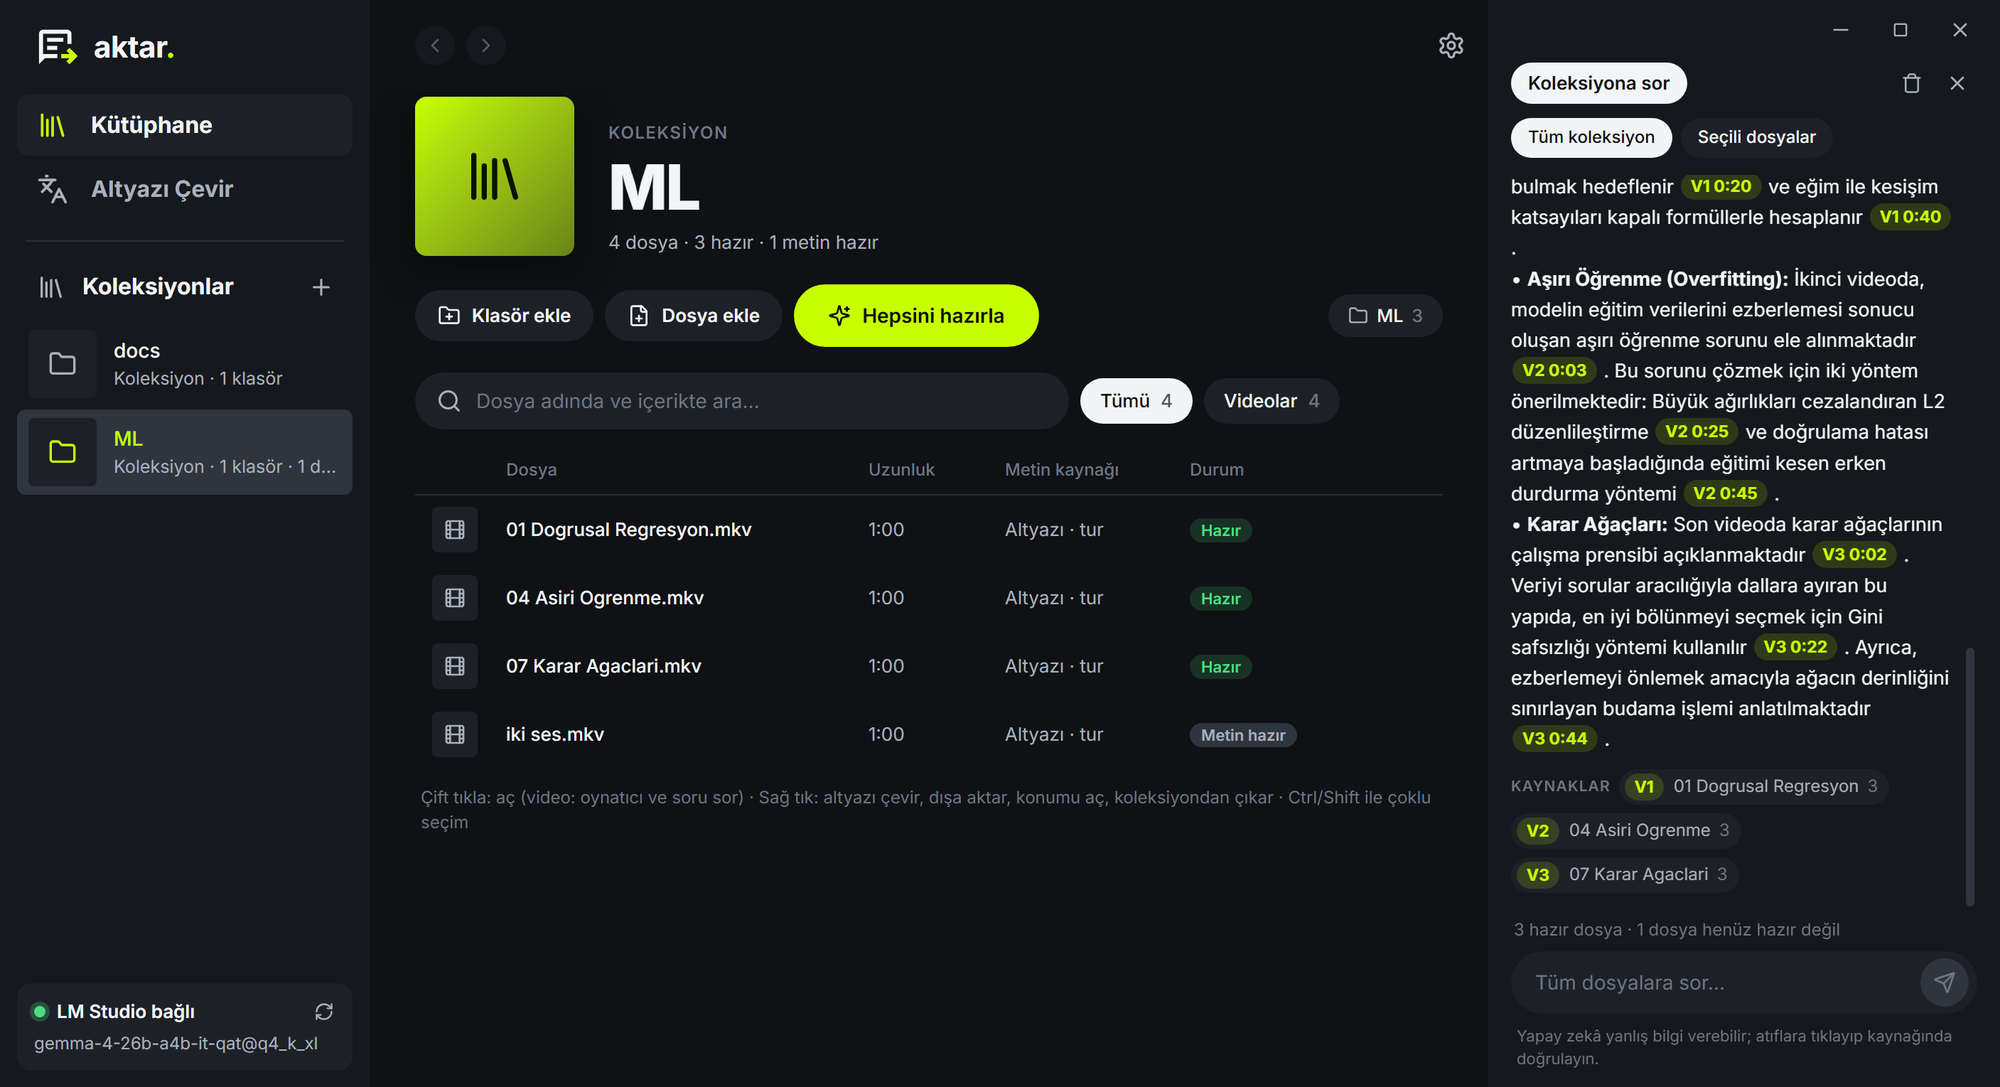
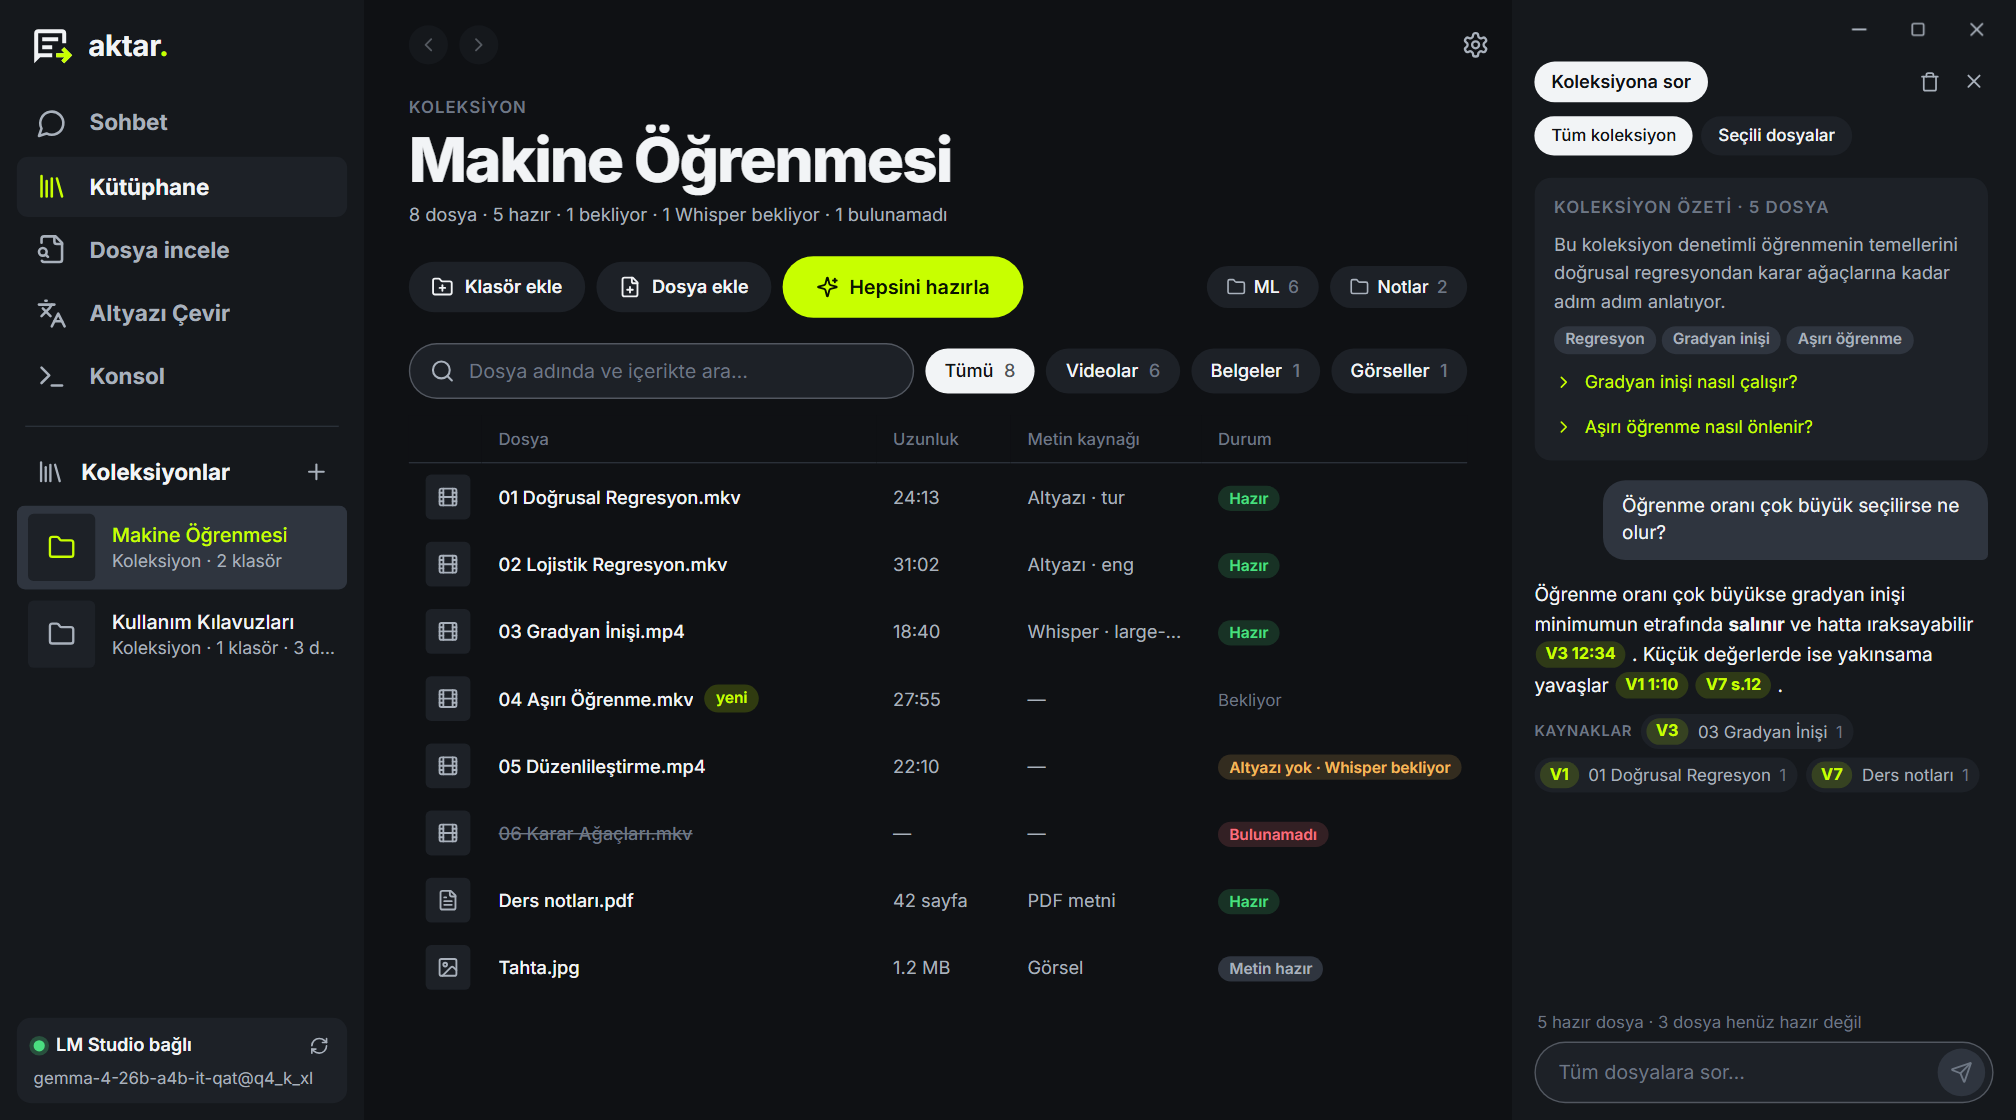
README: kisaltildi ve sadelestirildi, ekran goruntusu guncellendi

diff --git a/README.md b/README.md
@@ -7,96 +7,60 @@
 
 ![aktar arayüzü](preview.png)
 
-Video dosyalarındaki **metin tabanlı altyazıları** çıkarıp, **yerel bir yapay zeka modeliyle Türkçeye çeviren** ve videolarınız hakkında **soru sorabildiğiniz** masaüstü uygulaması.
+Videolarınızı ve belgelerinizi **yerel bir yapay zeka modeliyle** inceleyen masaüstü uygulaması: altyazıları Türkçeye çevirir, koleksiyonlarınıza soru sorabilir, cevapları zaman damgalı kaynaklarla gösterir.
 
-> **Gizlilik:** Hiçbir veri internet üzerinden gönderilmez. Çeviri ve soru-cevap tamamen yerel ağdaki LM Studio sunucusunda (`127.0.0.1`) yapılır. Kaynak video dosyası **salt-okunur** kabul edilir; kopyalanmaz, taşınmaz, değiştirilmez veya yeniden encode edilmez.
+> **Gizlilik:** Hiçbir veri internete gönderilmez. Tüm işlemler LM Studio sunucunuzda yapılır; kaynak dosyalar yalnızca okunur, değiştirilmez.
 
-> **English:** Aktar is a cross-platform (Windows, Linux) desktop app (pywebview window with a themeable Svelte interface, plus a companion CLI) that extracts text subtitles from video files and translates them to Turkish with a local LLM served by LM Studio. Everything runs locally and the source video is treated as read-only. The program preserves subtitle structure, timings, order and ASS tags — while the model only ever sees plain text, and it enforces a glossary for consistent terminology across episodes. The **Library** home page groups folders and videos into named collections (rescanned on open); opening a video gives a built-in player plus a chat that answers questions about your own videos with clickable timestamp citations, using embedded subtitles or optional local speech-to-text (faster-whisper).
+> **English:** Aktar is a local-first desktop app (Windows, Linux) that translates video subtitles to Turkish and lets you chat with your videos and documents, using an LLM served by LM Studio. Nothing leaves your machine.
 
 ---
 
-## Öne çıkan özellikler
+## Özellikler
 
-- **Kütüphane (açılış sayfası):** Klasörleri, videoları, belgeleri (PDF, Word, Excel/CSV, PowerPoint, OpenDocument, EPUB, RTF, HTML, .txt, .md; LibreOffice varsa eski .doc/.xls/.ppt) ve görselleri adlandırılmış koleksiyonlarda toplar; taranmış PDF sayfaları ve görseller LM Studio'daki görsel destekli modelle okunur (OCR; taranmış sayfalar için isteğe bağlı olarak hızlı, yerel Tesseract). Klasörler alt klasörleriyle taranır, koleksiyon her açıldığında yeni eklenen videolar bulunur. Tabloda her videonun transkript kaynağı ve hazırlık durumu görünür; **Hepsini hazırla** tüm transkriptleri sırayla çıkarır (altyazısız videolarda onayla Whisper) ve LM Studio'daki bir embedding modeliyle (ör. EmbeddingGemma) aranabilir indekse ekler. Sağdaki **Koleksiyona sor** paneli tüm hazır videolara birden soru sorar; cevaptaki `V3 12:34` atıflarına tıklayınca ilgili video o anda açılır. Dosya adında ve transkriptlerde anında arama yapılabilir; transkriptler TXT/SRT/Markdown olarak, koleksiyon tek Markdown dosyası olarak dışa aktarılabilir. Videoya çift tıklayınca tek video oynatıcı ve soru-cevap açılır.
-- **Sohbet:** Claude benzeri serbest sohbet; genel sorulara modelin kendi bilgisiyle cevap verir, soru kütüphanedeki dosyalarla ilgiliyse tüm koleksiyonlarda arayıp kaynak gösterir. Cevaplar akış halinde gelir, sohbetler saklanır.
-- **Dosya incele:** Tek bir videoyu ya da belgeyi koleksiyona eklemeden açıp soru sorun; son incelenenler ve sohbetleri saklanır.
-- **Zorunlu terim sözlüğü (glossary):** Çeviride belirtilen terimlerin karşılığı Türkçe çekim ekleriyle birlikte denetlenir; eksikse tek düzeltme turu yapılır.
-- **Seri bazlı glossary + süreklilik:** TV dizisi/anime bölümleri arasında isim yazımı, hitap biçimi (sen/siz) ve tekrar eden kalıplar seri düzeyinde saklanır.
-- **Yapay zekâ ön analizi:** Kaynak altyazıdan çevrilebilir kurgu terimleri, unvanlar, yerler ve kalıcı süreklilik kararları için Türkçe öneriler üretir; kullanıcı karşılığı düzenleyip yalnız bölüm veya seri kapsamıyla onaylayabilir.
-- **Çeviri sonrası öğrenme:** Ön analiz kapalı olsa bile çevirinin sonunda sonraki bölümlerde kullanılabilecek terimler ve süreklilik kararları çıkarılır; kullanıcı onayı olmadan seri terimlerine yazılmaz.
-- **Format korunur:** SRT→SRT, ASS→ASS, SSA→SSA, VTT→VTT. Yalnızca `mov_text` SRT'ye dönüştürülür.
-- **Videoya soru sor (Kütüphane → video):** Yerleşik oynatıcının yanında videonun içeriği hakkında yerel modelle sohbet eder; özet gibi genel sorular da belirli ayrıntılar da cevaplanır. Cevaptaki `12:34` atıflarına tıklayınca video o ana gider. Uzun videolarda bölüm bölüm "video haritası" çıkarılır.
-- **Altyazısız videolar için konuşmadan metin (isteğe bağlı):** faster-whisper ile ses yerelde metne çevrilir; sonuç hem soru-cevapta hem oynatıcıda altyazı olarak kullanılır. NVIDIA GPU varsa hızlandırılır.
-- **Oynatıcıda altyazı seçimi:** Videodaki akışlar, video klasöründeki altyazı dosyaları (Aktar'ın `_TR` çevirisi dahil) ve Whisper transkripti CC menüsünden seçilip izlenebilir.
-- **Temalar:** Koyu, açık ya da sistemle uyumlu görünüm ve hazır renk temaları (Acid, Oled, Sepia Ember…). `themes\` klasörüne kendi temanızı koyabilirsiniz; Deeverse tema dosyaları aynen çalışır.
-- **Her videoyu oynatır:** Tarayıcının çalamadığı biçimler (MKV, AC3/DTS ses, ikinci ses parçası) FFmpeg ile anında dönüştürülerek oynatılır; kaynak dosyaya dokunulmaz.
-- **Türkçe karakter güvenliği:** Kaynak ASS/SSA fontu Türkçe harfleri (`ç ğ ı İ ö ş ü`) çizemiyorsa çıktıda o font otomatik olarak **Calibri** ile değiştirilir.
+- **Kütüphane:** Klasörleri, videoları, belgeleri (PDF, Word, Excel, EPUB…) ve görselleri koleksiyonlarda toplar; tek tıkla hepsini aranabilir hale getirir.
+- **Koleksiyona sor:** Tüm koleksiyona birden soru sorun; cevaptaki `V3 12:34` gibi atıflara tıklayınca video o anda açılır.
+- **Sohbet ve Dosya incele:** Serbest sohbet ya da tek bir dosyayı koleksiyona eklemeden açıp soru sorma.
+- **Altyazı çevirisi:** SRT, ASS, SSA ve VTT biçimleri, zamanlamalar ve ASS etiketleri korunur. Dizi bölümleri arasında terim sözlüğü ve isim tutarlılığı sağlanır.
+- **Altyazısız videolar:** faster-whisper ile konuşma yerelde metne çevrilir (isteğe bağlı, NVIDIA GPU desteğiyle).
+- **Yerleşik oynatıcı:** MKV, AC3/DTS gibi biçimler FFmpeg ile dönüştürülerek oynatılır.
+- **Temalar:** Koyu, açık ve hazır renk temaları; kendi temanızı da ekleyebilirsiniz.
 
 ---
 
 ## Gereksinimler
 
-- **Windows 10/11** veya **Linux** (Debian, Ubuntu, Fedora…; KDE Plasma/GNOME, Wayland veya X11). Linux kurulumu için aşağıdaki **Linux** bölümüne bakın.
-- **Python 3.10+** (kaynak koddan çalıştırma için).
-- **Python paketleri:** pywebview (pencere; Windows'ta WebView2, Linux'ta WebKitGTK), pypdfium2 ve Pillow (PDF ve görseller) — `requirements.txt`.
-- **Node.js** (yalnızca kaynak koddan çalıştırırken ve derlerken; arayüz Svelte ile yazıldı, `GUI_BASLAT.cmd` her açılışta derler). Windows 10/11'de WebView2 hazır gelir.
-- **FFmpeg / ffprobe:** `bin\ffmpeg.exe` ve `bin\ffprobe.exe` olarak taşınabilir şekilde projeye konur(daha fazla bilgi için bin klasöründe  **[README.txt](bin/README.txt)** 'i okuyabilirsiniz).
-- **LM Studio:** yerel sunucu açık olmalı (varsayılan `http://127.0.0.1:1234/v1`) ve bir model yüklü olmalı. Soru Sor için modelin bağlam uzunluğu en az ~12k token önerilir.
-- **İsteğe bağlı — faster-whisper:** altyazısız videolarda konuşmadan metin için. Kaynak koddan çalışırken `requirements-whisper.txt`; derlenmiş .exe ile `DERLE_WHISPER.cmd`'nin ürettiği ayrı `aktar-whisper` paketi. GPU için cuBLAS 12 / cuDNN 9; başka programlarla ortak kullandığınız bir klasör varsa Ayarlar'dan gösterilebilir. Bkz. KULLANIM.md 1.5.
+- Windows 10/11 veya Linux
+- Python 3.10+ ve Node.js (kaynak koddan çalıştırmak için)
+- FFmpeg (`bin\` klasörüne, bkz. [bin/README.txt](bin/README.txt))
+- Yerel sunucusu açık ve bir model yüklü [LM Studio](https://lmstudio.ai)
 
 ---
 
 ## Hızlı başlangıç
 
-Release'deki .exe dosyası veya derlemeden kullanmak istiyorsanız;
+**Windows:**
 
 ```bat
-cd /d Z:\LLM-Files\Projects\Aktar
 py -3 -m pip install -r requirements.txt
-```
-
-1. `bin\` klasörüne `ffmpeg.exe` ve `ffprobe.exe` koyun.
-2. LM Studio'da modeli yükleyip yerel sunucuyu başlatın; `config.json` içindeki `base_url` ve `model` alanlarını kendi ayarınıza göre düzenleyin.
-3. Arayüzü başlatın:
-
-```bat
 GUI_BASLAT.cmd
 ```
 
-4. Açılan **Kütüphane** sayfasına bir klasör veya video sürükleyin; koleksiyon oluşur. Videoya çift tıklayınca oynatıcı ve soru-cevap açılır.
-5. Altyazı çevirmek için sol menüden **Altyazı Çevir** sayfasına geçin (ya da tablodaki videoya sağ tıklayıp **Altyazıyı çevir…**): videoyu sürükleyin → altyazı akışını işaretleyin → **Çevir**.
-
-### Linux (Debian, Ubuntu, KDE Plasma…)
+**Linux:**
 
 ```bash
-sudo apt install python3-venv python3-gi gir1.2-webkit2-4.1 nodejs npm ffmpeg fontconfig \
-                 gstreamer1.0-plugins-good gstreamer1.0-plugins-bad gstreamer1.0-libav
 ./kur.sh --kisayol
 ./baslat.sh
 ```
 
-`kur.sh`, paketleri proje klasöründeki `.venv` sanal ortamına kurar. `--whisper` konuşmadan metni, `--gpu` bunun yanında NVIDIA CUDA kütüphanelerini de kurar; `--kisayol` uygulama menüsüne kısayol ekler. FFmpeg sistemden kullanılır. Derleme için `./derle.sh` ve `./derle_whisper.sh` var. Ayrıntılar: **[KULLANIM.md → 1.6](KULLANIM.md#16-linux-debian-ubuntu-fedora-kde-plasma-gnome)**.
-
-Ayrıntılı kullanım ve .exe'nin derlenmesi için bkz. **[KULLANIM.md](KULLANIM.md)**.
-
-### Komut satırı (isteğe bağlı)
-
-```bat
-py -3 cevir.py check
-py -3 cevir.py streams "C:\video\Movie.mkv"
-py -3 cevir.py extract "C:\video\Movie.mkv" --stream 2
-py -3 cevir.py translate "C:\video\Movie.ass" --series game-of-thrones --glossary "Ash=Kul"
-```
+Açılan **Kütüphane** sayfasına bir klasör sürükleyin; koleksiyon oluşur. Ayarlar, derleme, Linux paketleri ve komut satırı kullanımı için bkz. **[KULLANIM.md](KULLANIM.md)**.
 
 ---
 
 ## Sınırlamalar
 
-- Yalnızca **metin tabanlı** altyazılar desteklenir; görüntü tabanlı altyazılar (PGS/VobSub) çevrilemez.
-- Satır ortasındaki karakter bazlı ASS efektleri (`C{\fs38}L...` gibi) modelden uzak tutulup çevrilmiş metindeki oransal konumlarına geri yerleştirilir. Etiketler korunur; kelime sırası değiştiğinde görsel konumları yaklaşık olabilir.
-- Çeviri kalitesi seçilen modele ve prompt'a bağlıdır; LM Studio model preset'inde "thinking" kapatılması önerilir (bkz. KULLANIM.md → Sorun giderme).
-- Otomatik konuşmacı ayrımı, karaoke zamanlaması veya altyazı zamanlaması düzeltmesi yapılmaz.
-- Soru Sor cevapları yalnızca transkripte (altyazı veya konuşma) dayanır; görüntüdeki içerik (grafikler, ekrandaki yazılar) görülmez. Whisper, `Aktar.exe`'ye gömülmez; ayrı `aktar-whisper` paketi olarak yanına konur.
+- Yalnızca metin tabanlı altyazılar çevrilir; PGS/VobSub gibi görüntü tabanlı altyazılar desteklenmez.
+- Cevaplar transkripte dayanır; videodaki görüntü içeriği görülmez.
+- Çeviri kalitesi seçilen modele bağlıdır.
 
 ---
 
